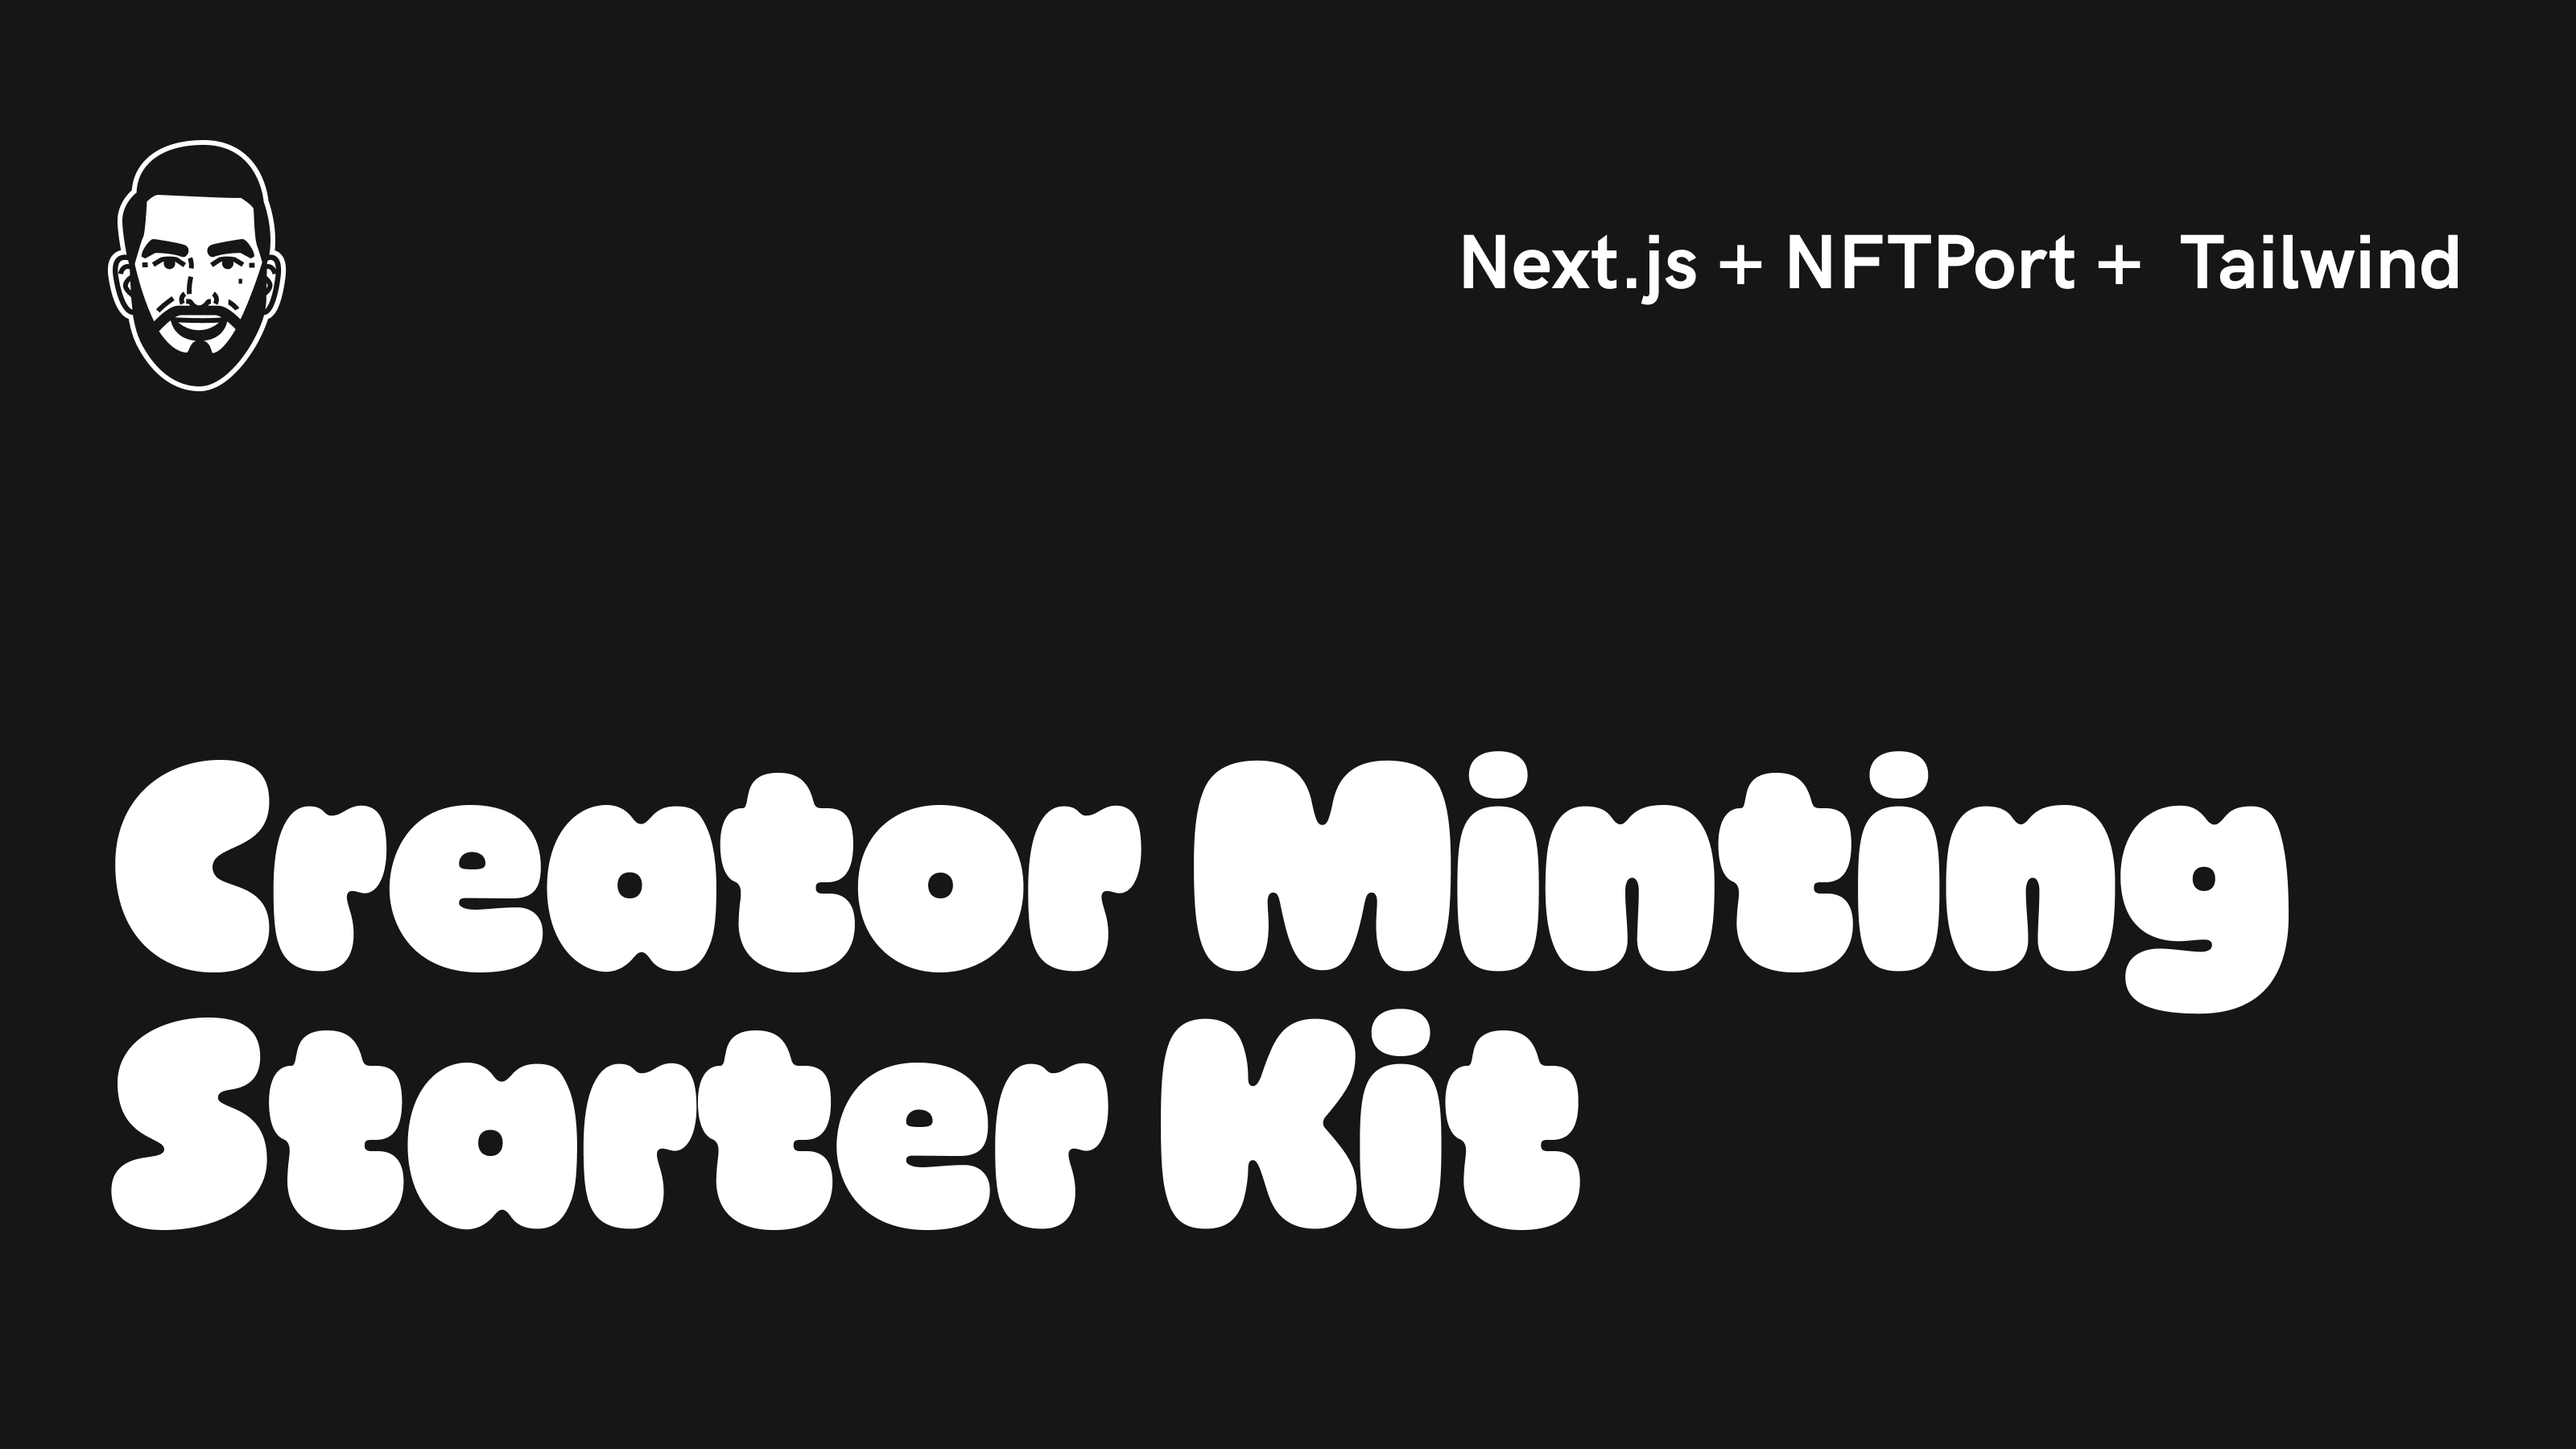
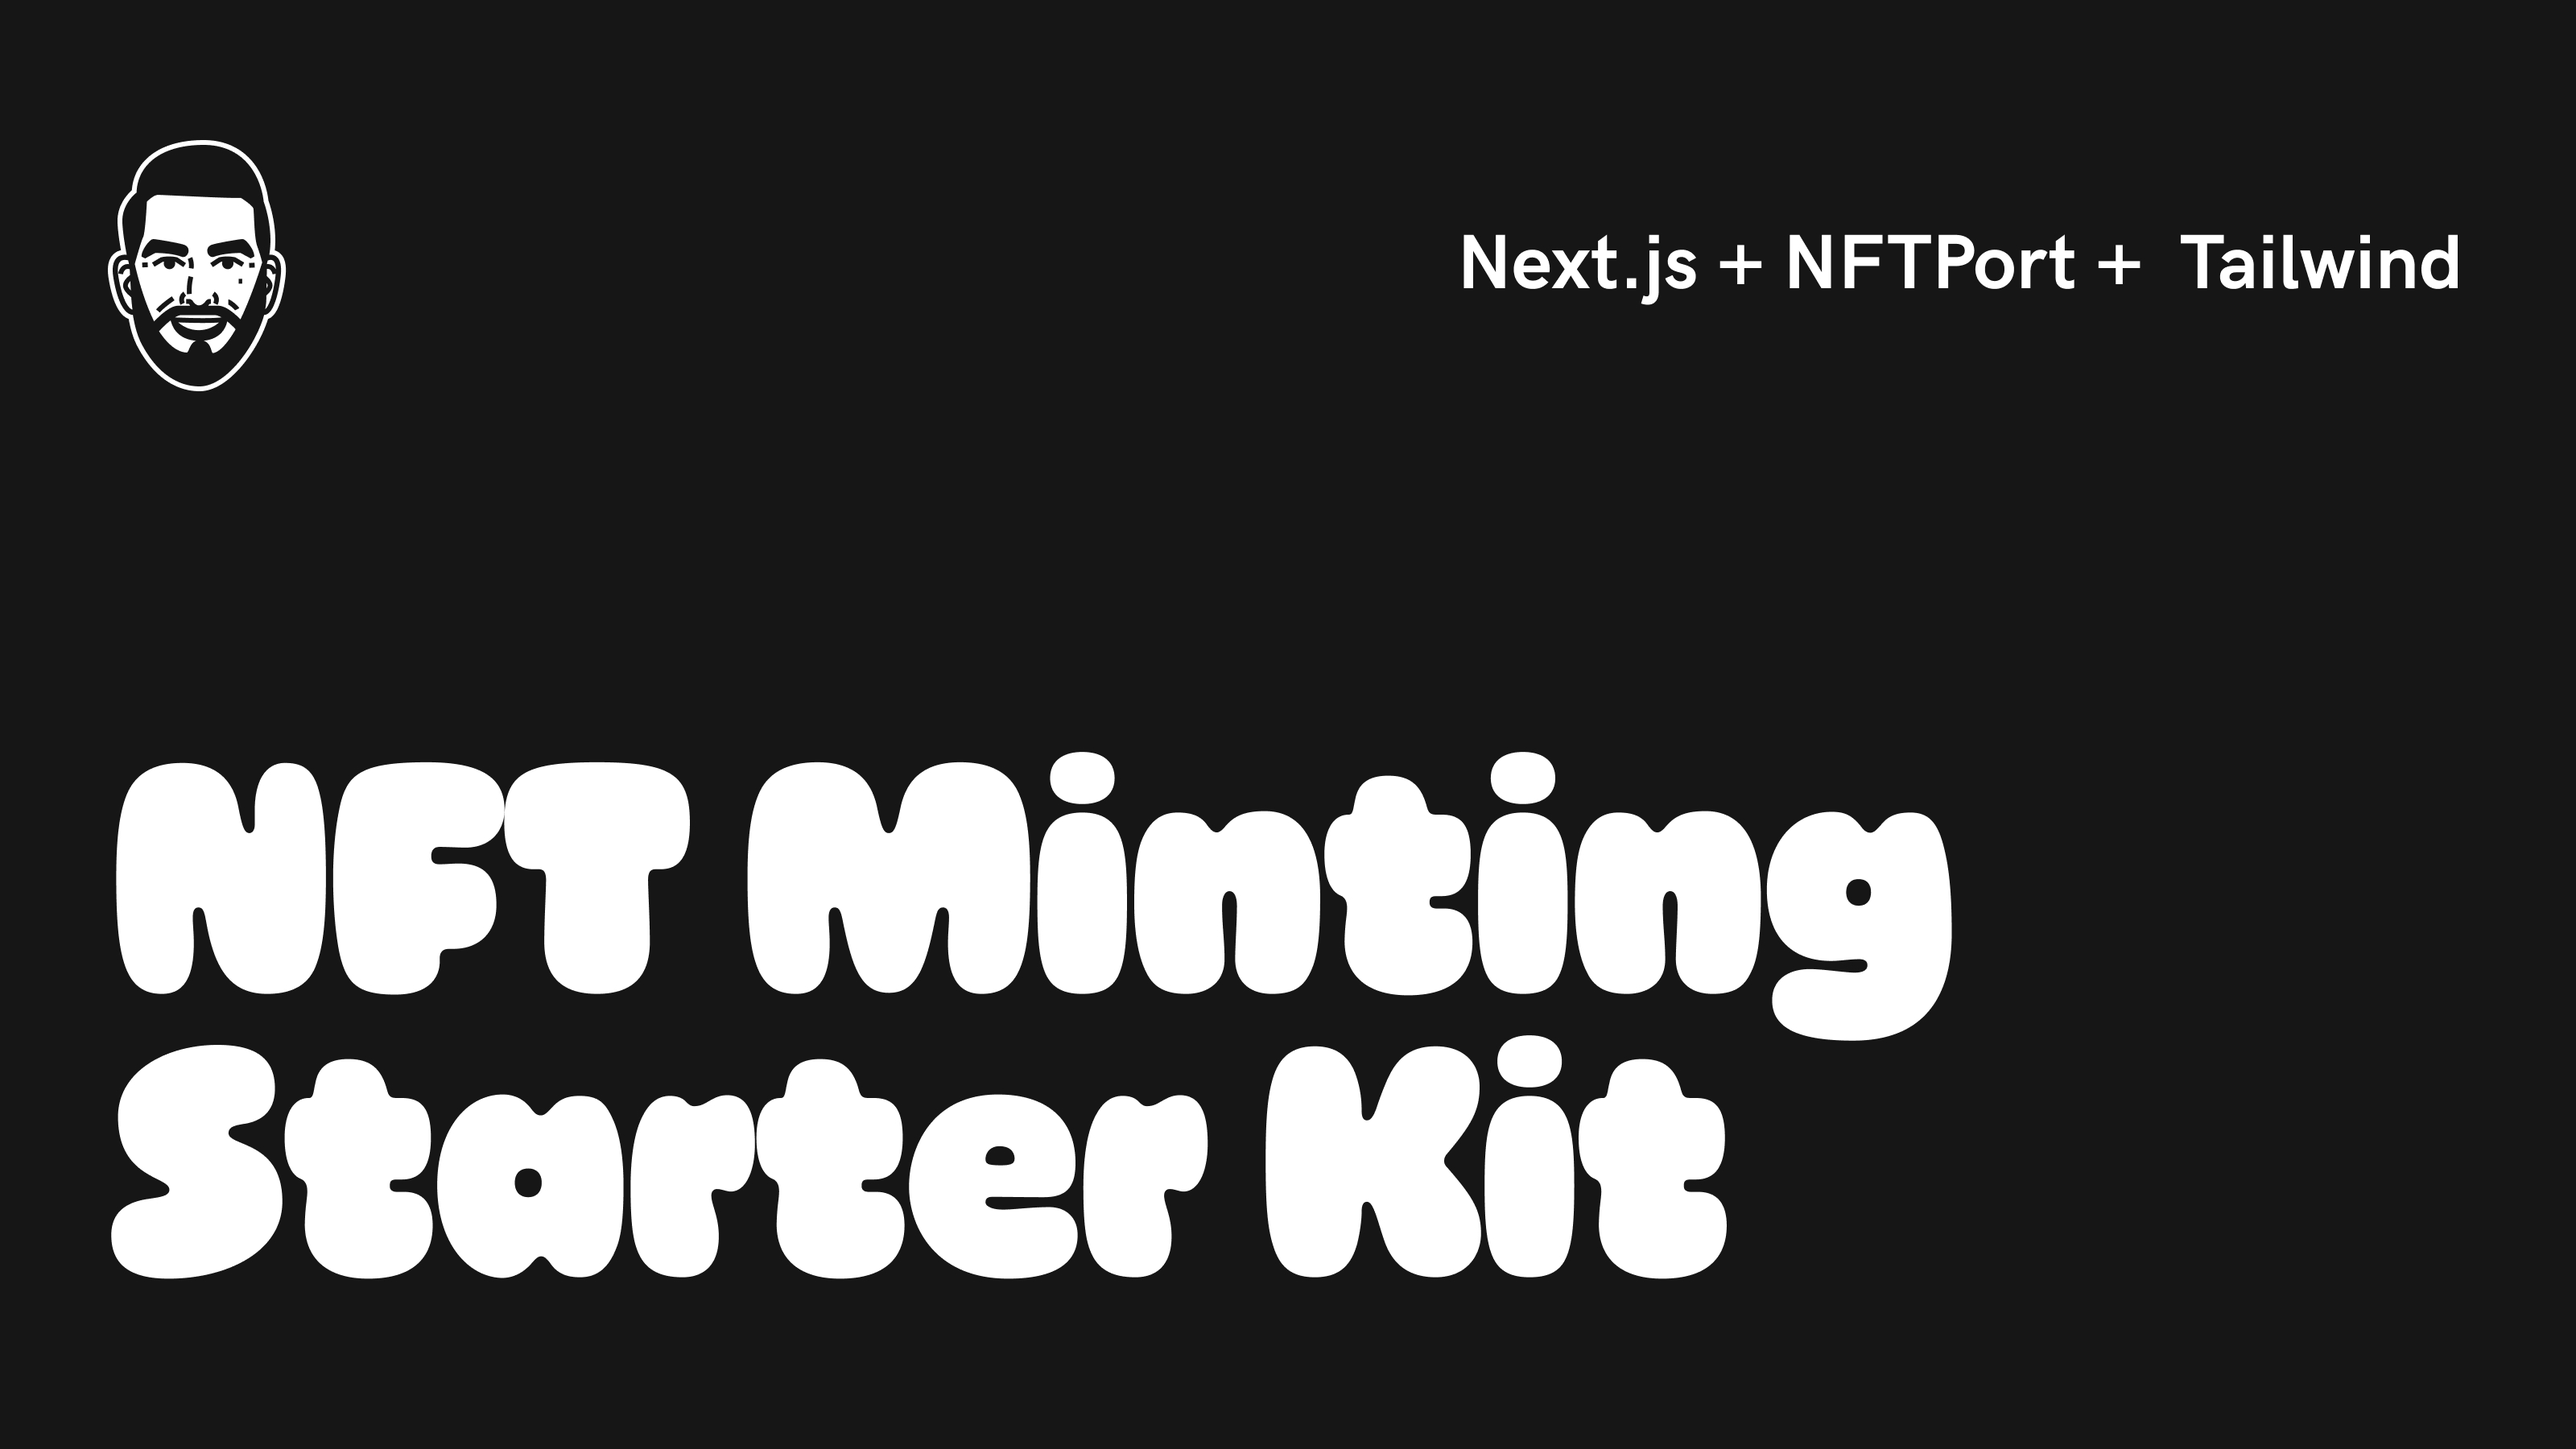
update project information

Changed region(s): [[0.0312, 0.4978, 0.9062, 0.9022]]

diff --git a/components/meta/meta.js b/components/meta/meta.js
@@ -4,16 +4,16 @@ export default function Meta() {
     return (
         <>
         <Head>
-            <title>NFTPort | Creator Minting Starter Kit</title>
-            <meta name="description" content="NFTPort Creator Minting Starter Kit using Next.js, Tailwind and Vercel." />
+            <title>NFTPort | NFT Minting Starter Kit</title>
+            <meta name="description" content="NFTPort NFT Minting Starter Kit using NFTPort, Next.js, and Wagmi." />
             <meta name="viewport" content="width=device-width, initial-scale=1, maximum-scale=1, user-scalable=0" />  
             <link rel="icon" href="/favicon.ico" />
-            <meta property="og:title" content="NFTPort | Creator Minting Starter Kit" />
+            <meta property="og:title" content="NFTPort | NFT Minting Starter Kit" />
             <meta property="og:type" content="article" />
             <meta property="og:url" content="https://bored-apes-nft-landing-page-xrdg.vercel.app/" />
             <meta property="og:image" content="https://nftport-portfolio-bored-apes-starter-kit.vercel.app/og.jpg" />
             <meta name="twitter:title" content="NFTPort | Creator Minting Starter Kit" />
-            <meta name="twitter:description" content="NFTPort Creator Minting Starter Kit using Next.js, Tailwind and Vercel." />
+            <meta name="twitter:description" content="NFTPort Creator Minting Starter Kit using NFTPort, Next.js, and Wagmi." />
             <meta name="twitter:image" content="https://nftport-portfolio-bored-apes-starter-kit.vercel.app/og.jpg" />
             <meta name="twitter:card" content="summary_large_image"></meta>
         </Head>

diff --git a/README.md b/README.md
@@ -1,4 +1,4 @@
-# NFTPort Creator Minting Starter Kit
+# NFTPort NFT Minting Starter Kit
 
 <img src="public/og.jpg">
 
